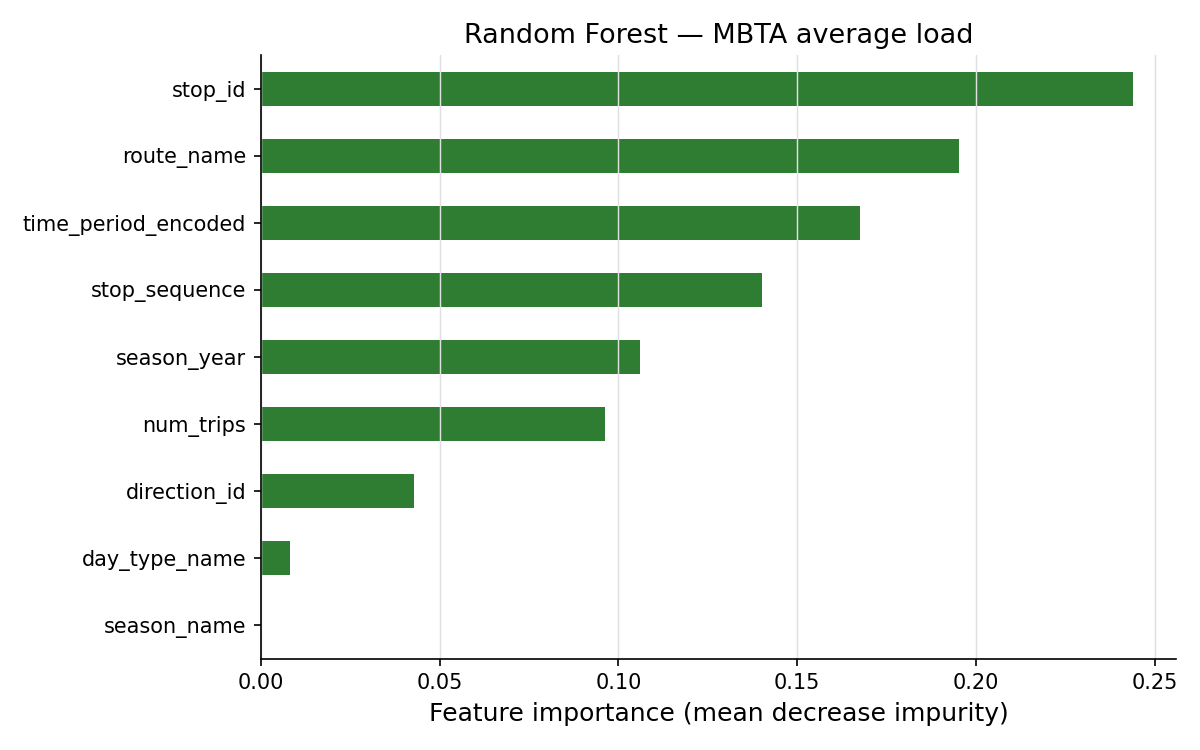
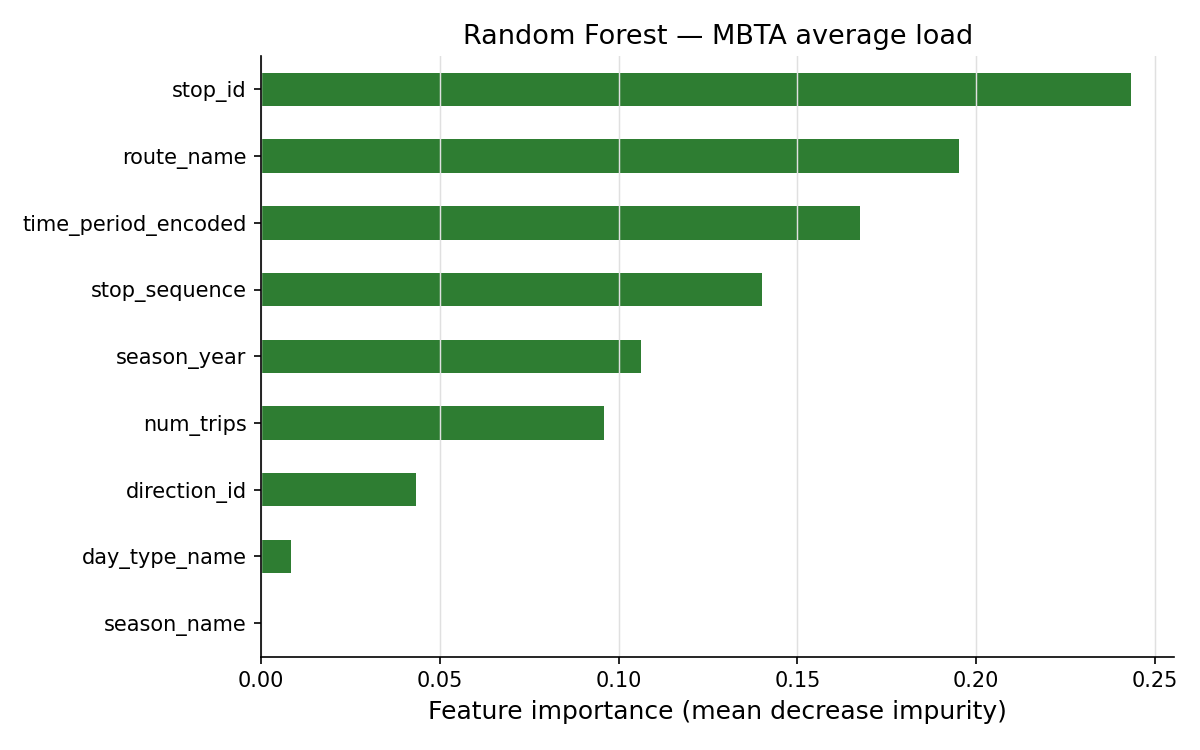
RF as final model to predict the average load, find least crowded time period

diff --git a/src/model/random_forest.py b/src/model/random_forest.py
@@ -56,9 +56,14 @@ FEATURES = [
     "season_name", "season_year", "num_trips",
 ]
 
-for col in ["route_name", "day_type_name", "season_name"]:
-    le = LabelEncoder()
-    df[col] = le.fit_transform(df[col].astype(str))
+le_route = LabelEncoder()
+df["route_name"] = le_route.fit_transform(df["route_name"].astype(str))
+
+le_day = LabelEncoder()
+df["day_type_name"] = le_day.fit_transform(df["day_type_name"].astype(str))
+
+le_season = LabelEncoder()
+df["season_name"] = le_season.fit_transform(df["season_name"].astype(str))
 
 train = df[df["season_year"] <= 2022]
 val   = df[df["season_year"] == 2023]
@@ -143,3 +148,102 @@ scatter_path = project_root / "diagram" / "model" / "rf_actual_vs_predicted.png"
 plt.savefig(scatter_path, dpi=150)
 plt.show()
 print(f"Saved: {scatter_path}")
+
+# =========================
+# Predict least crowded time period per route
+# =========================
+# Use the trained model to predict average_load for all route/time/day combinations
+# This directly answers project goal 4: identify least crowded travel periods
+
+# Build prediction grid: all routes x all time periods x weekday
+routes = sorted(df["route_name"].unique())
+time_periods = list(range(len(TIME_ORDER)))
+day_encoded = 2
+season_encoded = 0
+season_year = 2024
+num_trips_median = int(df["num_trips"].median())
+stop_sequence_median = int(df["stop_sequence"].median())
+stop_id_median = int(df["stop_id"].median())
+direction = 0  # outbound
+
+rows = []
+for route in routes:
+    for tp in time_periods:
+        rows.append({
+            "route_name": route,
+            "stop_id": stop_id_median,
+            "stop_sequence": stop_sequence_median,
+            "direction_id": direction,
+            "day_type_name": day_encoded,
+            "time_period_encoded": tp,
+            "season_name": season_encoded,
+            "season_year": season_year,
+            "num_trips": num_trips_median,
+        })
+
+grid_df = pd.DataFrame(rows)
+grid_df["predicted_load"] = model.predict(grid_df[FEATURES])
+
+# For each route, find the least crowded time period
+grid_df["time_period_name"] = grid_df["time_period_encoded"].map(
+    {i: t for i, t in enumerate(TIME_ORDER)}
+)
+
+least_crowded = (
+    grid_df.loc[grid_df.groupby("route_name")["predicted_load"].idxmin()]
+    [["route_name", "time_period_name", "predicted_load"]]
+    .reset_index(drop=True)
+)
+
+# Decode route name back to original
+least_crowded["route_name"] = le_route.inverse_transform(
+    least_crowded["route_name"].astype(int)
+)
+
+print("\n=== Least Crowded Time Period per Route (weekday, Random Forest) ===")
+print(least_crowded.to_string(index=False))
+
+# Save to CSV
+out_csv = project_root / "diagram" / "model" / "least_crowded_per_route.csv"
+least_crowded.to_csv(out_csv, index=False)
+print(f"\nSaved: {out_csv}")
+
+# Plot: top 5 busiest routes, load across all time periods
+top5_routes = (
+    grid_df.groupby("route_name")["predicted_load"]
+    .mean()
+    .nlargest(5)
+    .index.tolist()
+)
+
+top5_decoded = le_route.inverse_transform(top5_routes)
+
+fig, ax = plt.subplots(figsize=(12, 5))
+colors = ["#2e7d32", "#185FA5", "#F28C28", "#9C27B0", "#E53935"]
+
+for i, (route_enc, route_dec) in enumerate(zip(top5_routes, top5_decoded)):
+    route_data = grid_df[grid_df["route_name"] == route_enc].sort_values("time_period_encoded")
+    ax.plot(
+        route_data["time_period_name"],
+        route_data["predicted_load"],
+        marker="o", linewidth=2,
+        color=colors[i],
+        label=f"Route {route_dec}"
+    )
+
+ax.set_xlabel("Time Period", fontsize=12)
+ax.set_ylabel("Predicted Average Load", fontsize=12)
+ax.set_title(
+    "Top 5 Busiest Routes: Predicted Load Across Time Periods\n(weekday, Random Forest)",
+    fontsize=13
+)
+ax.legend()
+ax.spines[["top", "right"]].set_visible(False)
+ax.grid(axis="y", color="#e0e0e0", linewidth=0.7)
+plt.xticks(rotation=30, ha="right")
+plt.tight_layout()
+
+out_plot = project_root / "diagram" / "model" / "rf_load_by_time.png"
+plt.savefig(out_plot, dpi=150)
+plt.show()
+print(f"Saved: {out_plot}")